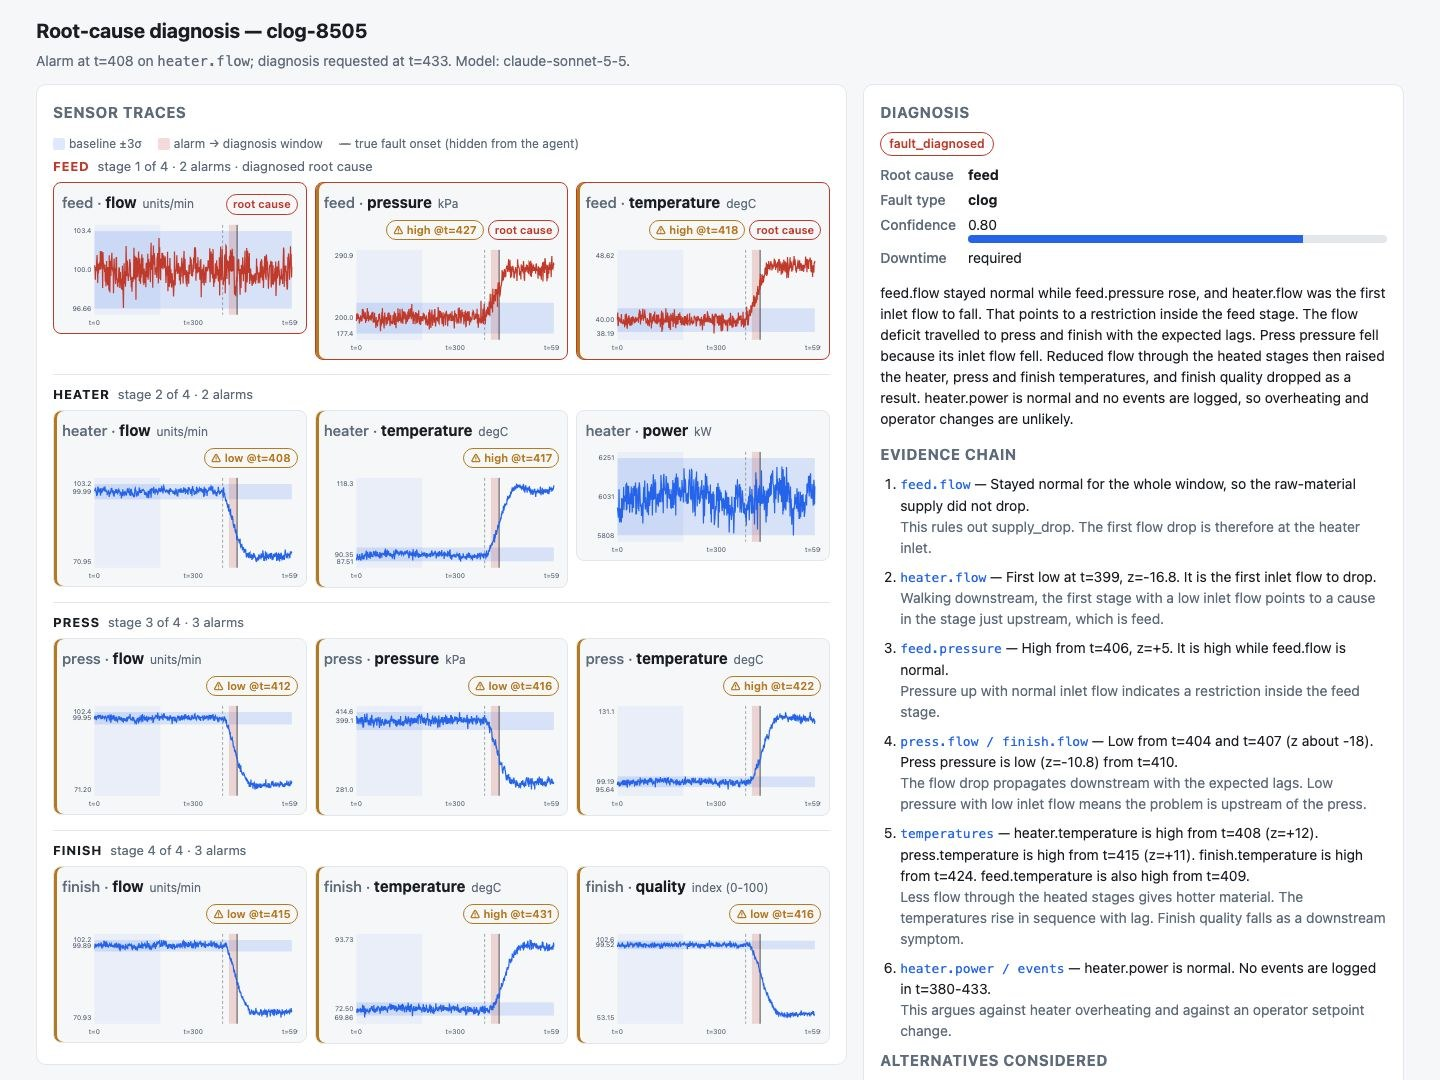
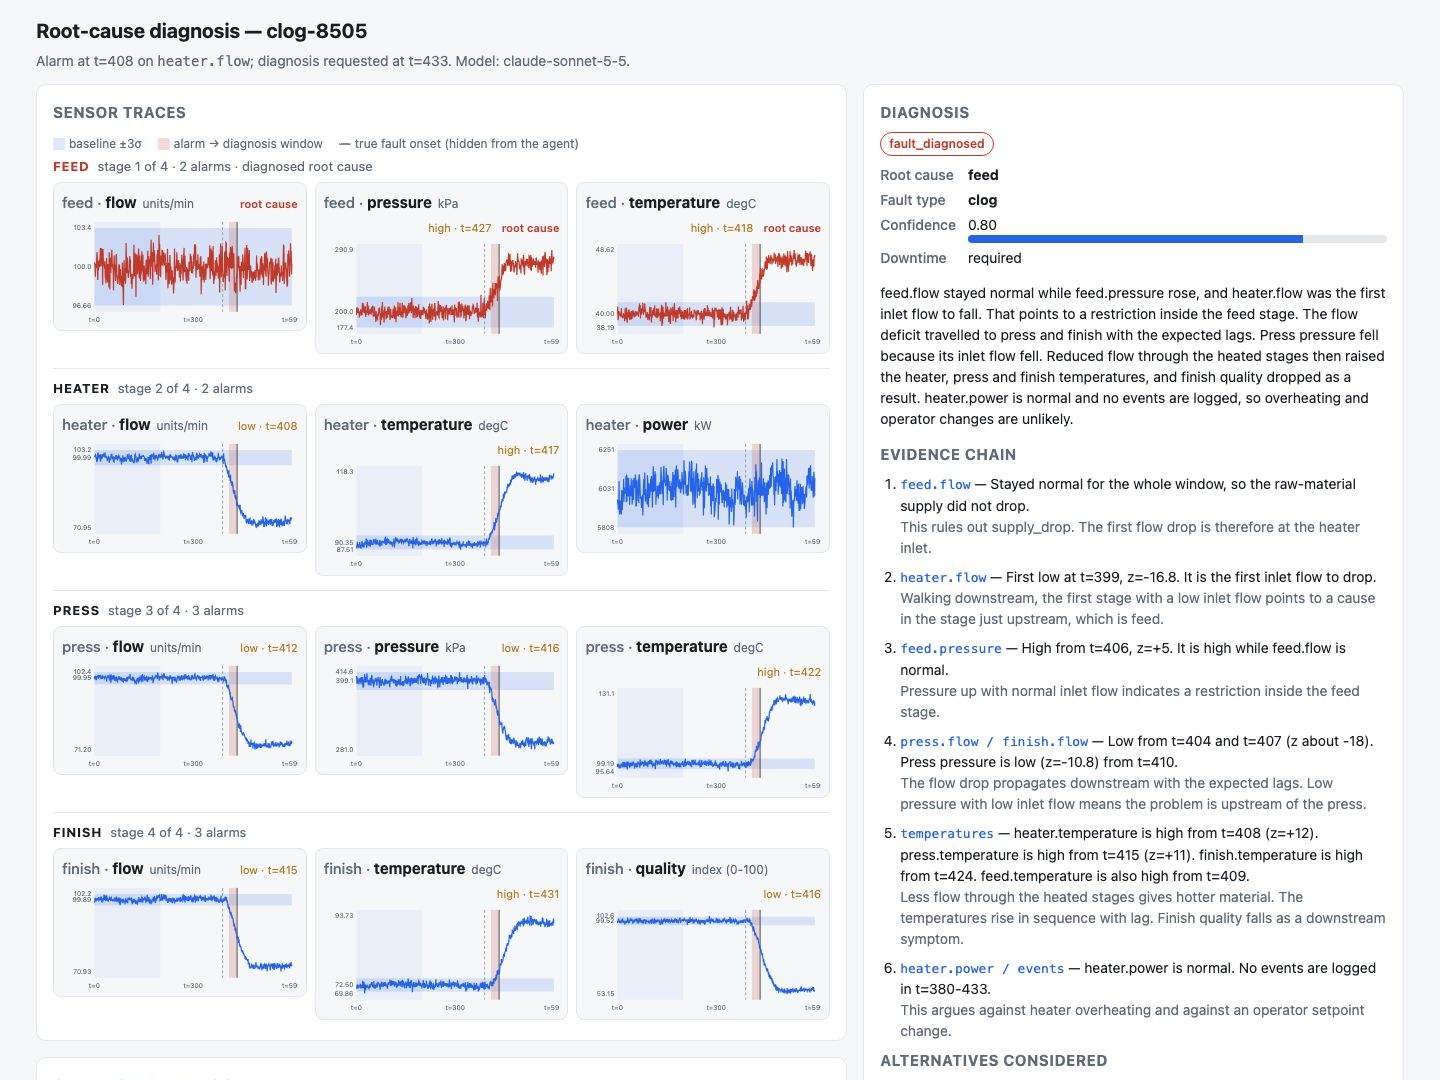
Dashboard: subtler trace cards
Drop the coloured card outlines and pill badges; the stage and sensor
name stays as the large label, alarm and root-cause markers become small
text. Hero image refreshed.

Changed region(s): [[0.0312, 0.3361, 0.5938, 0.9778], [0.0625, 0.1528, 0.5625, 0.3361], [0.0312, 0.275, 0.0625, 0.3056]]

diff --git a/src/rootcause/ui/dashboard.py b/src/rootcause/ui/dashboard.py
@@ -45,14 +45,12 @@ th{color:var(--muted);font-weight:600}a{color:var(--accent)}
 .stage-title .sub{font-weight:400;text-transform:none;letter-spacing:0;color:var(--muted);margin-left:8px}
 .stage-title.root{color:var(--red)}
 .trace-card{border:1px solid var(--line);border-radius:8px;padding:8px 8px 4px;background:var(--bg)}
-.trace-card.root{border-color:var(--red)}
-.trace-card.alarm{box-shadow:inset 3px 0 0 var(--amber)}
-.trace-head{display:flex;flex-wrap:wrap;align-items:baseline;gap:6px;margin-bottom:4px}
+.trace-head{display:flex;flex-wrap:wrap;align-items:baseline;gap:6px;margin-bottom:2px}
 .trace-name{font-size:15px;font-weight:700}
 .trace-name .stage{color:var(--muted);font-weight:500}
 .trace-unit{font-size:12px;color:var(--muted)}
-.trace-badges{margin-left:auto;display:flex;gap:4px}
-.badge.sm{font-size:11px;padding:1px 6px}
+.trace-tags{margin-left:auto;display:flex;gap:10px;font-size:11px;white-space:nowrap}
+.tag-alarm{color:var(--amber)}.tag-root{color:var(--red);font-weight:600}
 .sw{display:inline-block;width:12px;height:12px;vertical-align:-2px;margin-right:4px;border-radius:2px}
 """
 
@@ -234,11 +232,11 @@ const esc = t => String(t).replace(/[&<>"]/g, c => ({{'&':'&amp;','<':'&lt;','>'
 function card(stage, m) {{
   const sid = stage + '.' + m, alarm = D.alarms.find(a => a.sensor === sid), isRoot = stage === D.root_stage;
   const unit = D.units[m] ? `<span class="trace-unit">${{esc(D.units[m])}}</span>` : '';
-  const badges = [];
-  if (alarm) badges.push(`<span class="badge sm b-amber" title="Detector alarm">⚠ ${{esc(alarm.kind)}} @t=${{alarm.alarm_tick}}</span>`);
-  if (isRoot) badges.push(`<span class="badge sm b-red">root cause</span>`);
-  return `<div class="trace-card${{isRoot ? ' root' : ''}}${{alarm ? ' alarm' : ''}}">
-    <div class="trace-head"><span class="trace-name"><span class="stage">${{esc(stage)}} ·</span> ${{esc(m)}}</span>${{unit}}<span class="trace-badges">${{badges.join('')}}</span></div>
+  const tags = [];
+  if (alarm) tags.push(`<span class="tag-alarm" title="Detector alarm">${{esc(alarm.kind)}} · t=${{alarm.alarm_tick}}</span>`);
+  if (isRoot) tags.push(`<span class="tag-root">root cause</span>`);
+  return `<div class="trace-card">
+    <div class="trace-head"><span class="trace-name"><span class="stage">${{esc(stage)}} ·</span> ${{esc(m)}}</span>${{unit}}<span class="trace-tags">${{tags.join('')}}</span></div>
     ${{chart(sid, stage)}}</div>`;
 }}
 D.stages.forEach((stage, i) => {{
